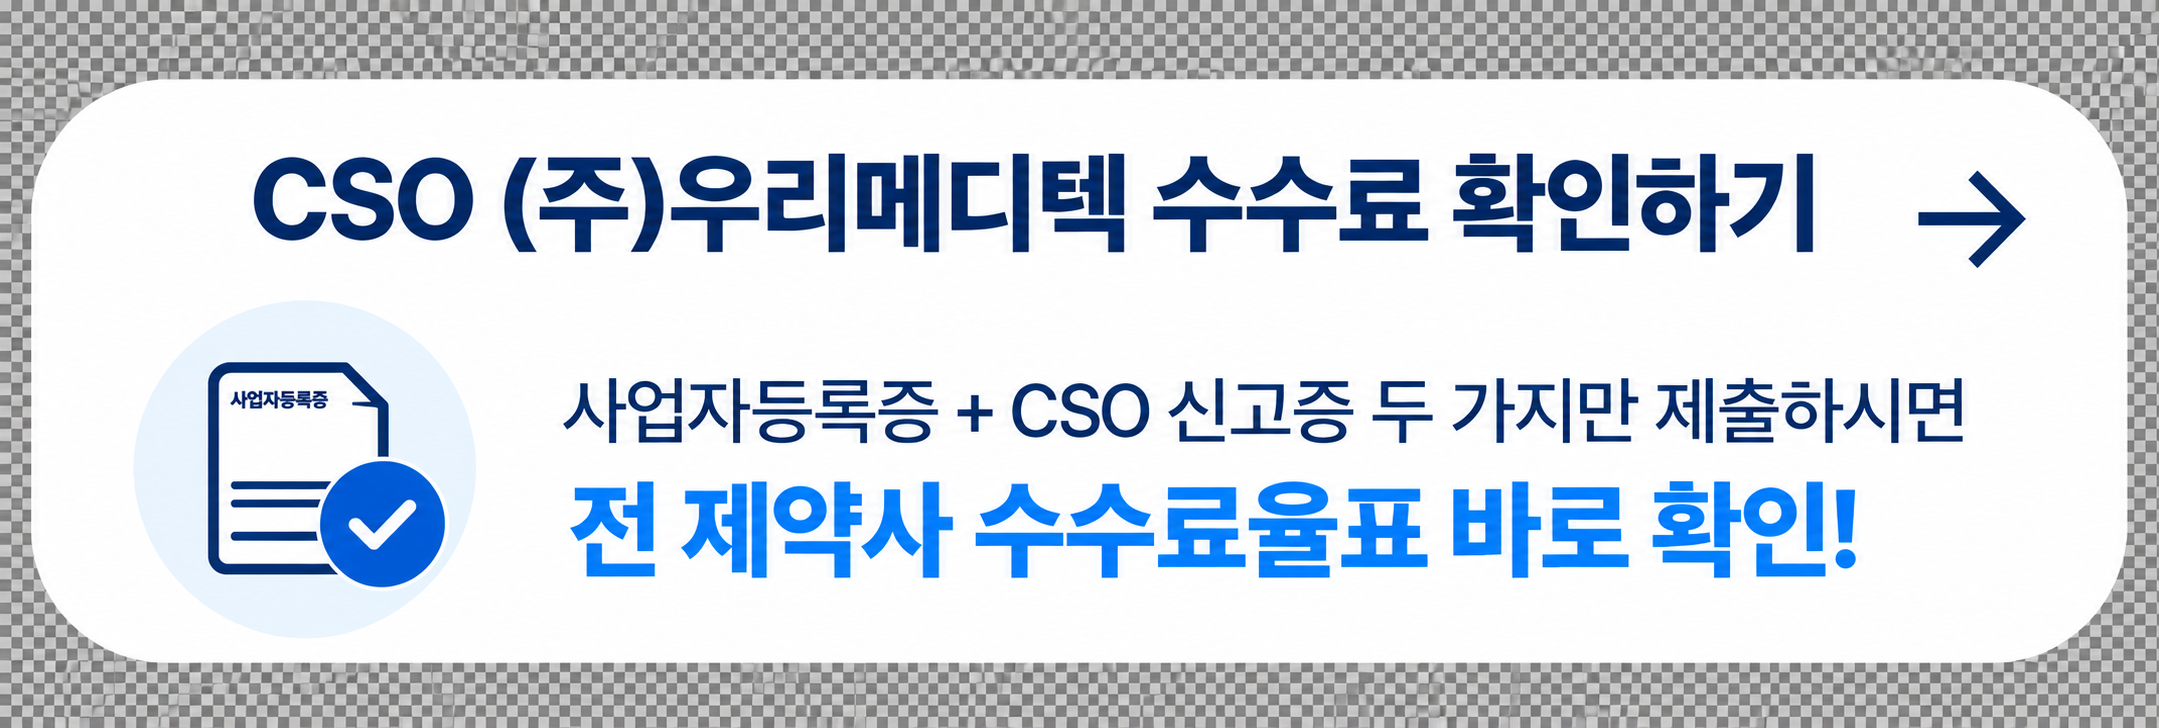
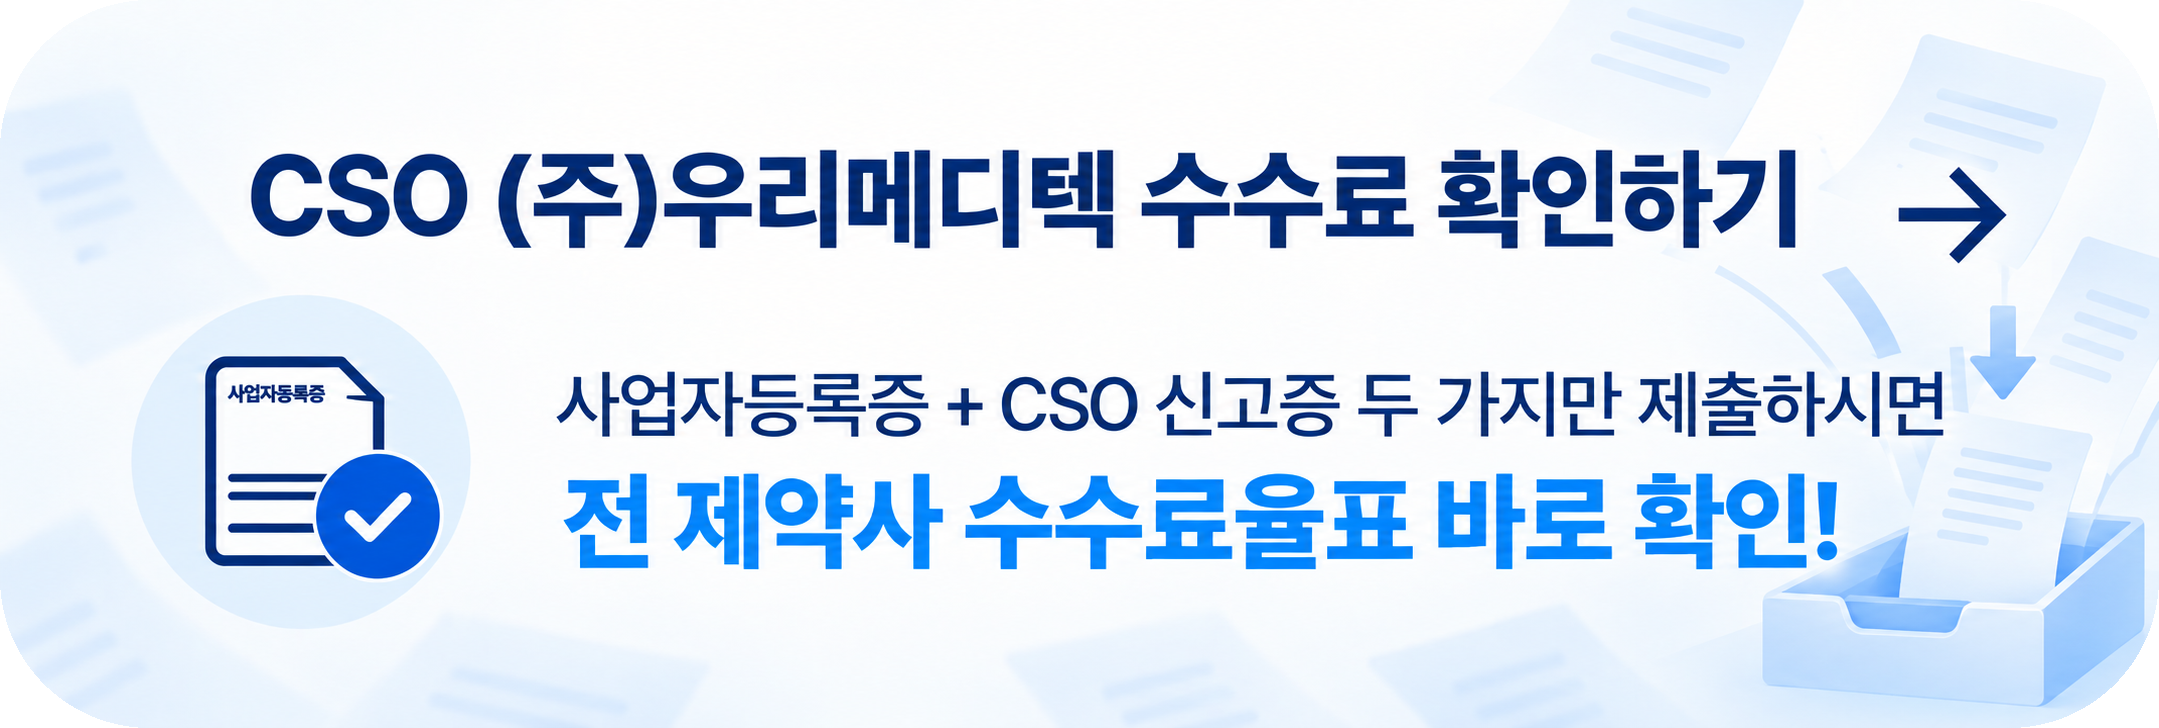
update site

diff --git a/src/components/MainLanding.tsx b/src/components/MainLanding.tsx
@@ -98,32 +98,15 @@ export default function MainLanding({ onNavigateToCalculator, onNavigateToInquir
               id="hero-go-calc"
               type="button"
               onClick={onNavigateToCalculator}
-              className="w-full block -mx-1.5 md:mx-0 transition-all duration-200 cursor-pointer hover:scale-[1.01] active:scale-[0.99]"
-              style={{ width: 'calc(100% + 12px)' }}
+              className="w-full block transition-all duration-200 cursor-pointer hover:scale-[1.01] active:scale-[0.99]"
               aria-label="CSO (주)우리메디텍 수수료 확인하기"
             >
-              {/* 원본 이미지 가장자리에 체크무늬가 박혀 있어 잘라내고 보여준다 */}
-              <span
-                className="block bg-white shadow-lg"
-                style={{ borderRadius: '26px', padding: '14px 6px' }}
-              >
-              <span className="block overflow-hidden" style={{ borderRadius: '14px' }}>
-                <img
-                  src={ctaFeeCheck}
-                  alt="CSO (주)우리메디텍 수수료 확인하기 — 사업자등록증 + CSO 신고증 두 가지만 제출하시면 전 제약사 수수료율표 바로 확인!"
-                  className="block"
-                  style={{
-                    width: '113%',
-                    maxWidth: 'none',
-                    height: 'auto',
-                    marginLeft: '-7%',
-                    marginTop: '-5.6%',
-                    marginBottom: '-5.6%',
-                  }}
-                  draggable={false}
-                />
-              </span>
-              </span>
+              <img
+                src={ctaFeeCheck}
+                alt="CSO (주)우리메디텍 수수료 확인하기 — 사업자등록증 + CSO 신고증 두 가지만 제출하시면 전 제약사 수수료율표 바로 확인!"
+                className="w-full h-auto rounded-2xl shadow-lg block"
+                draggable={false}
+              />
             </button>
 
             <button
